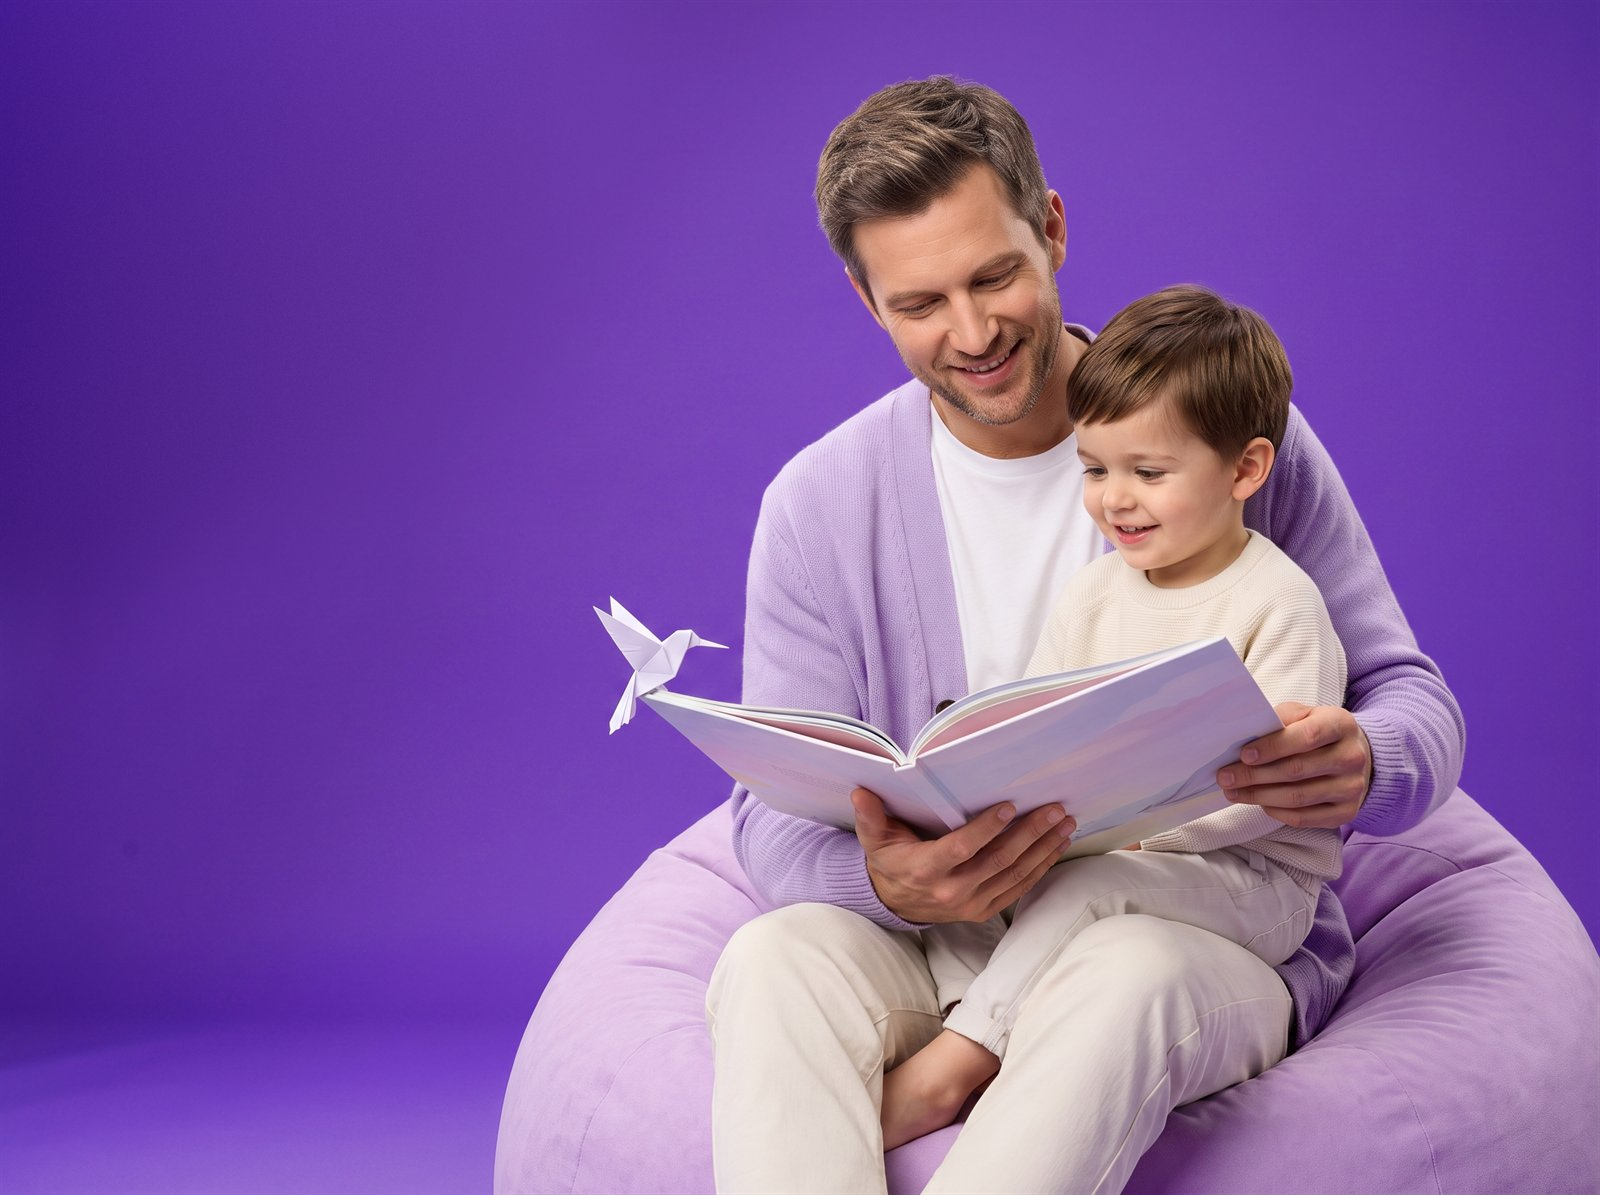
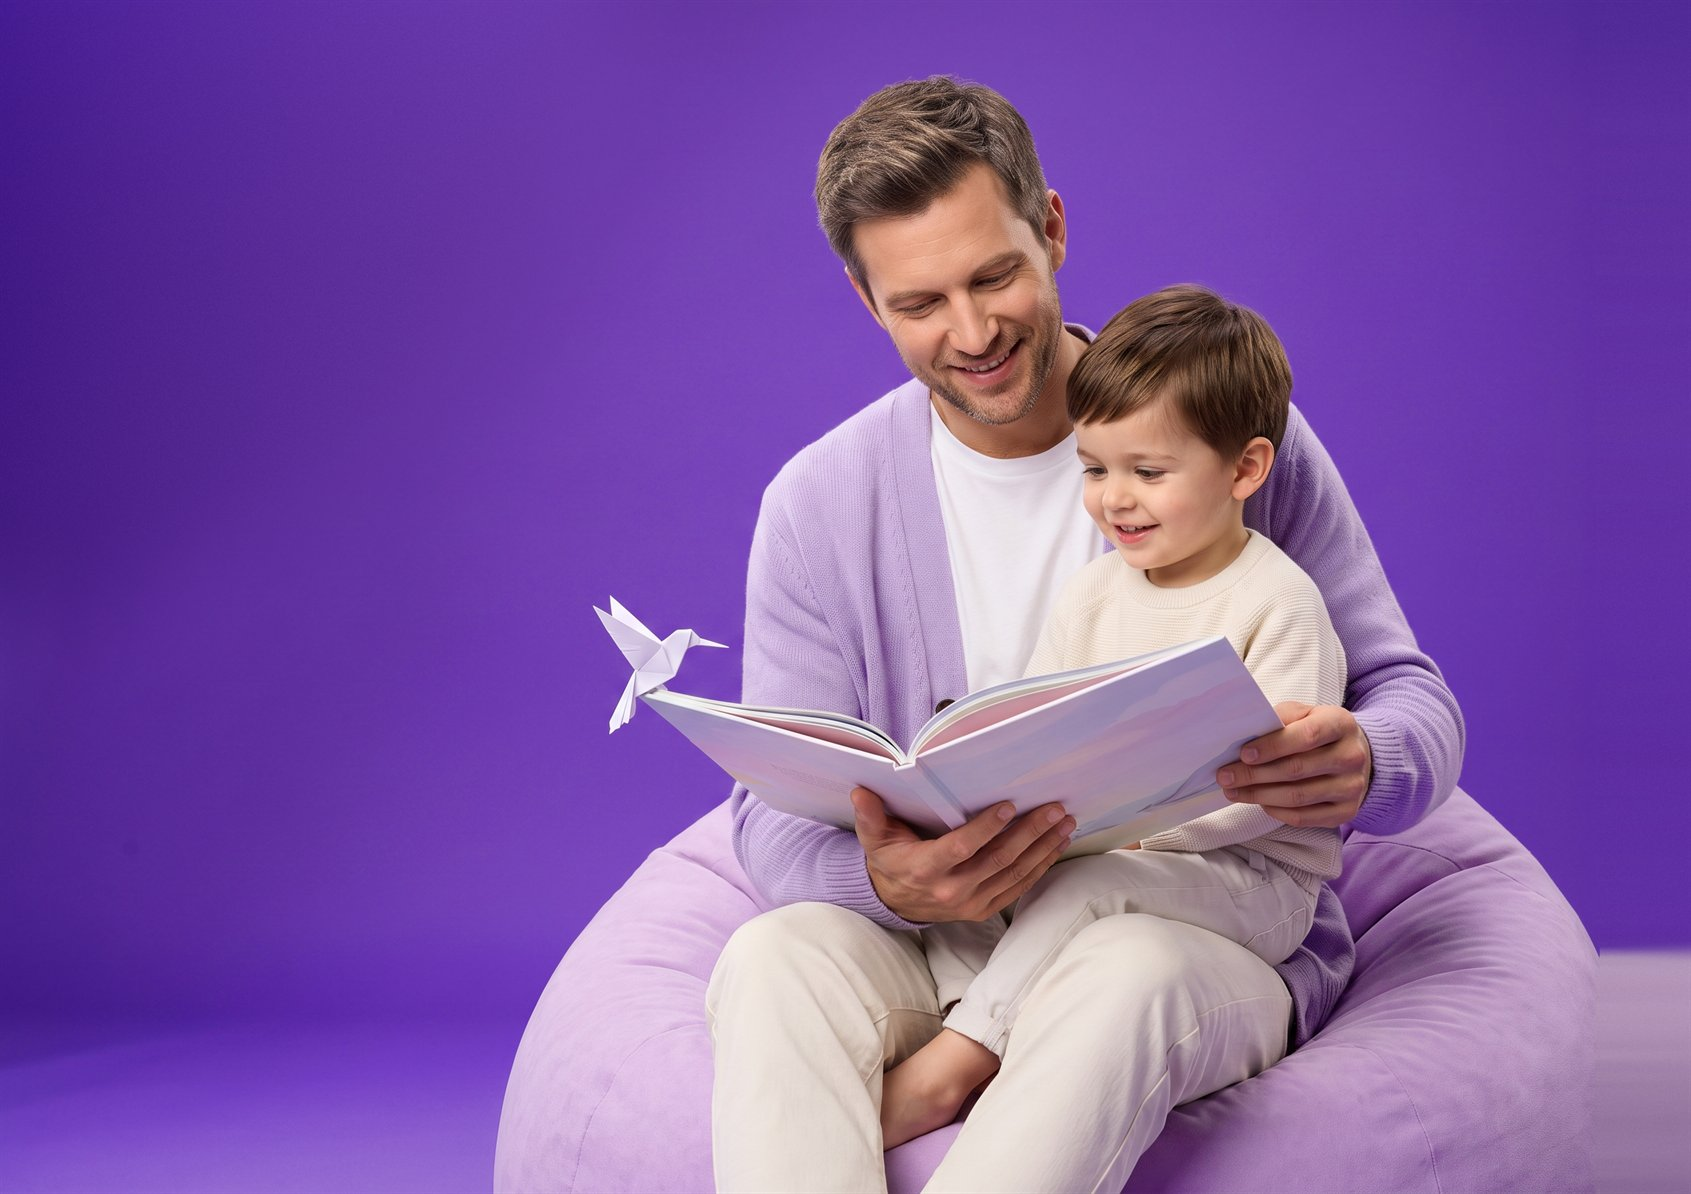
Баннеры страниц: одна высота 548 px, люди по центру между текстом и краем (как в слайдере)

diff --git a/css/style.css b/css/style.css
@@ -416,18 +416,22 @@ p { margin: 0 0 1em; }
 .page-hero { padding: 24px 0 0; }
 .page-hero__box {
   background: linear-gradient(110deg, var(--p700) 0%, var(--p600) 45%, var(--p500) 100%); color: #fff; border-radius: 32px; padding: 0;
-  display: grid; grid-template-columns: .95fr 1.25fr; align-items: stretch; position: relative; overflow: hidden; box-shadow: var(--shadow); min-height: 460px;
+  display: grid; grid-template-columns: minmax(0, .95fr) minmax(0, 1.25fr); align-items: stretch; position: relative; overflow: hidden; box-shadow: var(--shadow);
+  /* все баннеры страниц одной высоты — как самый высокий («О клинике») */
+  min-height: 548px;
 }
 .page-hero__box > div:first-child { padding: 52px 24px 52px 56px; display: flex; flex-direction: column; justify-content: center; position: relative; z-index: 2; }
 .page-hero__box h1 { color: #fff; margin-bottom: 12px; text-shadow: 0 2px 12px rgba(46,27,91,.25); }
 .page-hero__box p { font-size: 18px; opacity: .94; max-width: 520px; }
+/* как в слайдере главной: фото заходит под текст на 40 px и прижато к правому краю, справа у фото дорисован
+   фон (цветокор\баннеры-gemini.ps1, $Extend) — люди стоят по центру между текстом и краем баннера */
 .page-hero__box .ph {
-  border-radius: 0; aspect-ratio: auto; height: 100%; min-height: 460px; background: transparent;
-  -webkit-mask-image: linear-gradient(90deg, rgba(0,0,0,0) 0%, rgba(0,0,0,.5) 16%, #000 36%);
-  mask-image: linear-gradient(90deg, rgba(0,0,0,0) 0%, rgba(0,0,0,.5) 16%, #000 36%);
+  border-radius: 0; aspect-ratio: auto; height: 100%; min-height: 0; margin-left: -40px; background: transparent;
+  -webkit-mask-image: linear-gradient(90deg, rgba(0,0,0,0) 0%, rgba(0,0,0,.5) 10%, #000 22%);
+  mask-image: linear-gradient(90deg, rgba(0,0,0,0) 0%, rgba(0,0,0,.5) 10%, #000 22%);
 }
 .page-hero__box .ph::before { display: none; }
-.page-hero__box .ph img { width: 100%; height: 100%; object-fit: cover; object-position: center top; }
+.page-hero__box .ph img { width: 100%; height: 100%; object-fit: cover; object-position: right top; }
 .page-hero__box .btn { margin-top: 8px; align-self: flex-start; }
 .breadcrumbs { font-size: 14px; color: var(--muted); margin-bottom: 20px; display: flex; gap: 8px; flex-wrap: wrap; }
 .breadcrumbs a { color: var(--muted); }
@@ -436,7 +440,7 @@ p { margin: 0 0 1em; }
   .page-hero__box { grid-template-columns: 1fr; min-height: 0; }
   .page-hero__box > div:first-child { padding: 28px 24px 36px; order: 2; }
   .page-hero__box .ph {
-    order: 1; min-height: 0; aspect-ratio: 16/9;
+    order: 1; min-height: 0; height: auto; margin-left: 0; aspect-ratio: 16/9;
     -webkit-mask-image: linear-gradient(180deg, #000 55%, rgba(0,0,0,.4) 80%, rgba(0,0,0,0) 100%);
     mask-image: linear-gradient(180deg, #000 55%, rgba(0,0,0,.4) 80%, rgba(0,0,0,0) 100%);
   }

diff --git a/app-concept.html b/app-concept.html
@@ -9,7 +9,7 @@
   <link rel="preconnect" href="https://fonts.googleapis.com">
   <link rel="preconnect" href="https://fonts.gstatic.com" crossorigin>
   <link href="https://fonts.googleapis.com/css2?family=Comfortaa:wght@400;600;700&family=Nunito:wght@400;600;700;800&display=swap" rel="stylesheet">
-  <link rel="stylesheet" href="css/style.css?v=202610012200">
+  <link rel="stylesheet" href="css/style.css?v=202610012217">
   <style>
     /* ---------- страница ---------- */
     .concept-hero { background: linear-gradient(120deg, var(--p600), var(--p800)); color: #fff; border-radius: 32px; padding: 44px 48px; margin-top: 24px; display: grid; grid-template-columns: 1.2fr .8fr; gap: 32px; align-items: center; position: relative; overflow: hidden; }
@@ -778,8 +778,8 @@
   <symbol id="a-alert" viewBox="0 0 24 24" fill="none" stroke="currentColor" stroke-width="2" stroke-linecap="round" stroke-linejoin="round"><circle cx="12" cy="12" r="9"/><path d="M12 7v6M12 16h.01"/></symbol>
 </svg>
 
-<script src="js/data.js?v=202610012200"></script>
-<script src="js/photos.js?v=202610012200"></script>
-<script src="js/main.js?v=202610012200"></script>
+<script src="js/data.js?v=202610012217"></script>
+<script src="js/photos.js?v=202610012217"></script>
+<script src="js/main.js?v=202610012217"></script>
 </body>
 </html>

diff --git a/rostomer.html b/rostomer.html
@@ -8,7 +8,7 @@
   <link rel="preconnect" href="https://fonts.googleapis.com">
   <link rel="preconnect" href="https://fonts.gstatic.com" crossorigin>
   <link href="https://fonts.googleapis.com/css2?family=Comfortaa:wght@400;600;700&family=Nunito:wght@400;600;700;800&display=swap" rel="stylesheet">
-  <link rel="stylesheet" href="css/style.css?v=202610012200">
+  <link rel="stylesheet" href="css/style.css?v=202610012217">
   <style>
     .intro { background: #fff; border-radius: var(--radius); padding: 24px 28px; box-shadow: var(--shadow); margin-bottom: 28px; }
     .intro p { margin: 0 0 8px; font-size: 15px; }
@@ -90,10 +90,10 @@
   </div>
 </section>
 
-<script src="js/data.js?v=202610012200"></script>
-<script src="js/photos.js?v=202610012200"></script>
-<script src="js/main.js?v=202610012200"></script>
-<script src="js/rostomer.js?v=202610012200"></script>
+<script src="js/data.js?v=202610012217"></script>
+<script src="js/photos.js?v=202610012217"></script>
+<script src="js/main.js?v=202610012217"></script>
+<script src="js/rostomer.js?v=202610012217"></script>
 <script>
 (function () {
   window.ROSTOMER.variants.forEach(function (v, i) {

diff --git a/index.html b/index.html
@@ -9,7 +9,7 @@
   <link rel="preconnect" href="https://fonts.googleapis.com">
   <link rel="preconnect" href="https://fonts.gstatic.com" crossorigin>
   <link href="https://fonts.googleapis.com/css2?family=Comfortaa:wght@400;600;700&family=Nunito:wght@400;600;700;800&display=swap" rel="stylesheet">
-  <link rel="stylesheet" href="css/style.css?v=202610012200">
+  <link rel="stylesheet" href="css/style.css?v=202610012217">
 </head>
 <body>
 
@@ -237,8 +237,8 @@
   </div>
 </section>
 
-<script src="js/data.js?v=202610012200"></script>
-<script src="js/photos.js?v=202610012200"></script>
-<script src="js/main.js?v=202610012200"></script>
+<script src="js/data.js?v=202610012217"></script>
+<script src="js/photos.js?v=202610012217"></script>
+<script src="js/main.js?v=202610012217"></script>
 </body>
 </html>

diff --git a/ceny.html b/ceny.html
@@ -9,7 +9,7 @@
   <link rel="preconnect" href="https://fonts.googleapis.com">
   <link rel="preconnect" href="https://fonts.gstatic.com" crossorigin>
   <link href="https://fonts.googleapis.com/css2?family=Comfortaa:wght@400;600;700&family=Nunito:wght@400;600;700;800&display=swap" rel="stylesheet">
-  <link rel="stylesheet" href="css/style.css?v=202610012200">
+  <link rel="stylesheet" href="css/style.css?v=202610012217">
 </head>
 <body>
 
@@ -63,8 +63,8 @@
   </div>
 </section>
 
-<script src="js/data.js?v=202610012200"></script>
-<script src="js/photos.js?v=202610012200"></script>
-<script src="js/main.js?v=202610012200"></script>
+<script src="js/data.js?v=202610012217"></script>
+<script src="js/photos.js?v=202610012217"></script>
+<script src="js/main.js?v=202610012217"></script>
 </body>
 </html>

diff --git a/kontakty.html b/kontakty.html
@@ -9,7 +9,7 @@
   <link rel="preconnect" href="https://fonts.googleapis.com">
   <link rel="preconnect" href="https://fonts.gstatic.com" crossorigin>
   <link href="https://fonts.googleapis.com/css2?family=Comfortaa:wght@400;600;700&family=Nunito:wght@400;600;700;800&display=swap" rel="stylesheet">
-  <link rel="stylesheet" href="css/style.css?v=202610012200">
+  <link rel="stylesheet" href="css/style.css?v=202610012217">
 </head>
 <body>
 
@@ -55,8 +55,8 @@
   </div>
 </section>
 
-<script src="js/data.js?v=202610012200"></script>
-<script src="js/photos.js?v=202610012200"></script>
-<script src="js/main.js?v=202610012200"></script>
+<script src="js/data.js?v=202610012217"></script>
+<script src="js/photos.js?v=202610012217"></script>
+<script src="js/main.js?v=202610012217"></script>
 </body>
 </html>

diff --git a/o-klinike.html b/o-klinike.html
@@ -9,7 +9,7 @@
   <link rel="preconnect" href="https://fonts.googleapis.com">
   <link rel="preconnect" href="https://fonts.gstatic.com" crossorigin>
   <link href="https://fonts.googleapis.com/css2?family=Comfortaa:wght@400;600;700&family=Nunito:wght@400;600;700;800&display=swap" rel="stylesheet">
-  <link rel="stylesheet" href="css/style.css?v=202610012200">
+  <link rel="stylesheet" href="css/style.css?v=202610012217">
 </head>
 <body>
 
@@ -91,8 +91,8 @@
   </div>
 </section>
 
-<script src="js/data.js?v=202610012200"></script>
-<script src="js/photos.js?v=202610012200"></script>
-<script src="js/main.js?v=202610012200"></script>
+<script src="js/data.js?v=202610012217"></script>
+<script src="js/photos.js?v=202610012217"></script>
+<script src="js/main.js?v=202610012217"></script>
 </body>
 </html>

diff --git a/poleznoe.html b/poleznoe.html
@@ -9,7 +9,7 @@
   <link rel="preconnect" href="https://fonts.googleapis.com">
   <link rel="preconnect" href="https://fonts.gstatic.com" crossorigin>
   <link href="https://fonts.googleapis.com/css2?family=Comfortaa:wght@400;600;700&family=Nunito:wght@400;600;700;800&display=swap" rel="stylesheet">
-  <link rel="stylesheet" href="css/style.css?v=202610012200">
+  <link rel="stylesheet" href="css/style.css?v=202610012217">
 </head>
 <body>
 
@@ -33,8 +33,8 @@
   </div>
 </section>
 
-<script src="js/data.js?v=202610012200"></script>
-<script src="js/photos.js?v=202610012200"></script>
-<script src="js/main.js?v=202610012200"></script>
+<script src="js/data.js?v=202610012217"></script>
+<script src="js/photos.js?v=202610012217"></script>
+<script src="js/main.js?v=202610012217"></script>
 </body>
 </html>

diff --git a/uslugi.html b/uslugi.html
@@ -9,7 +9,7 @@
   <link rel="preconnect" href="https://fonts.googleapis.com">
   <link rel="preconnect" href="https://fonts.gstatic.com" crossorigin>
   <link href="https://fonts.googleapis.com/css2?family=Comfortaa:wght@400;600;700&family=Nunito:wght@400;600;700;800&display=swap" rel="stylesheet">
-  <link rel="stylesheet" href="css/style.css?v=202610012200">
+  <link rel="stylesheet" href="css/style.css?v=202610012217">
 </head>
 <body>
 
@@ -57,8 +57,8 @@
   </div>
 </section>
 
-<script src="js/data.js?v=202610012200"></script>
-<script src="js/photos.js?v=202610012200"></script>
-<script src="js/main.js?v=202610012200"></script>
+<script src="js/data.js?v=202610012217"></script>
+<script src="js/photos.js?v=202610012217"></script>
+<script src="js/main.js?v=202610012217"></script>
 </body>
 </html>

diff --git a/uzi.html b/uzi.html
@@ -9,7 +9,7 @@
   <link rel="preconnect" href="https://fonts.googleapis.com">
   <link rel="preconnect" href="https://fonts.gstatic.com" crossorigin>
   <link href="https://fonts.googleapis.com/css2?family=Comfortaa:wght@400;600;700&family=Nunito:wght@400;600;700;800&display=swap" rel="stylesheet">
-  <link rel="stylesheet" href="css/style.css?v=202610012200">
+  <link rel="stylesheet" href="css/style.css?v=202610012217">
 </head>
 <body>
 
@@ -75,8 +75,8 @@
   </div>
 </section>
 
-<script src="js/data.js?v=202610012200"></script>
-<script src="js/photos.js?v=202610012200"></script>
-<script src="js/main.js?v=202610012200"></script>
+<script src="js/data.js?v=202610012217"></script>
+<script src="js/photos.js?v=202610012217"></script>
+<script src="js/main.js?v=202610012217"></script>
 </body>
 </html>

diff --git a/vrachi.html b/vrachi.html
@@ -9,7 +9,7 @@
   <link rel="preconnect" href="https://fonts.googleapis.com">
   <link rel="preconnect" href="https://fonts.gstatic.com" crossorigin>
   <link href="https://fonts.googleapis.com/css2?family=Comfortaa:wght@400;600;700&family=Nunito:wght@400;600;700;800&display=swap" rel="stylesheet">
-  <link rel="stylesheet" href="css/style.css?v=202610012200">
+  <link rel="stylesheet" href="css/style.css?v=202610012217">
 </head>
 <body>
 
@@ -45,8 +45,8 @@
   </div>
 </section>
 
-<script src="js/data.js?v=202610012200"></script>
-<script src="js/photos.js?v=202610012200"></script>
-<script src="js/main.js?v=202610012200"></script>
+<script src="js/data.js?v=202610012217"></script>
+<script src="js/photos.js?v=202610012217"></script>
+<script src="js/main.js?v=202610012217"></script>
 </body>
 </html>
